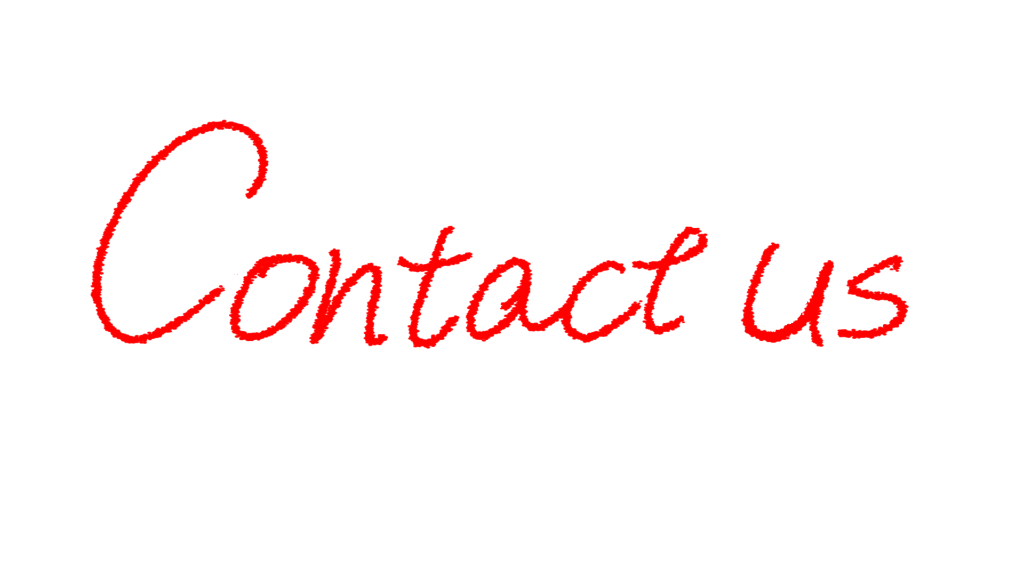
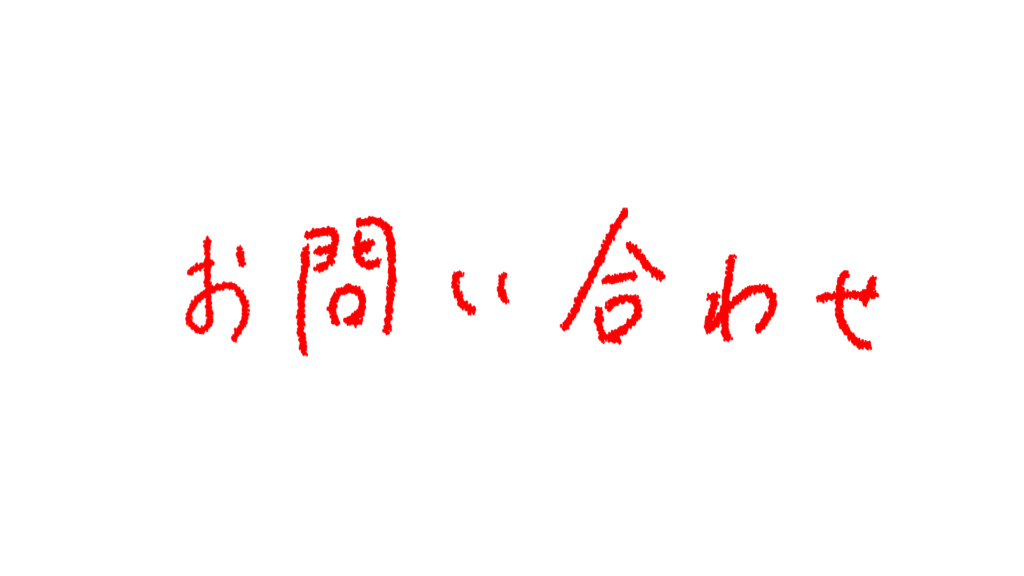
タイトル画像置き換え

Changed region(s): [[0.0625, 0.3438, 0.9062, 0.625], [0.125, 0.1875, 0.2812, 0.3438], [0.75, 0.4062, 0.7812, 0.4375]]

diff --git a/my-app/src/app/(frontend)/sections/Products.tsx b/my-app/src/app/(frontend)/sections/Products.tsx
@@ -100,18 +100,18 @@ export default function Products() {
       <div className="max-w-7xl mx-auto">
         {/* Header */}
         <div className="max-w-6xl mx-auto px-6">
-          <div className="flex justify-center mb-12">
-            <div className="relative w-48 h-16">
+          <div className="flex justify-center mb-8">
+            <div className="relative w-[400px] h-70">
               <Image
                 src="/images/products_title.png"
-                alt="Products"
+                alt="商品情報"
                 fill
                 className="object-contain"
                 priority
               />
             </div>
           </div>
-          <p className="text-ws-black/70 text-lg">
+          <p className="text-ws-black/70 text-lg text-center mb-8">
             鳥取の自然が育んだ、至高の味わいをお届けします。
           </p>
         </div>
@@ -124,8 +124,8 @@ export default function Products() {
               onClick={() => setSelectedCategory(cat)}
               className={`px-6 py-2 rounded-full border transition-all duration-300 ${
                 selectedCategory === cat
-                  ? 'bg-ws-primary text-white border-ws-primary shadow-lg scale-105'
-                  : 'bg-white text-ws-black border-ws-gray hover:border-ws-primary hover:text-ws-primary'
+                  ? 'bg-red-600 text-white border-red-600 shadow-lg scale-105'
+                  : 'bg-white text-ws-black border-ws-gray hover:border-red-600 hover:text-red-600'
               }`}
             >
               {cat === 'All'

diff --git a/my-app/src/app/(frontend)/sections/About.tsx b/my-app/src/app/(frontend)/sections/About.tsx
@@ -15,7 +15,7 @@ export default function About() {
             <div className="relative w-96 h-40">
               <Image
                 src="/images/about_title.png"
-                alt="私たちが大切にしていること"
+                alt="私たちについて"
                 fill
                 className="object-contain"
                 priority
@@ -42,9 +42,16 @@ export default function About() {
               <div className="inline-block px-6 py-2 bg-ws-black text-white rounded-full text-sm font-bold mb-8 tracking-wider">
                 FARMERS GARDEN
               </div>
-              <h3 className="text-3xl md:text-4xl font-bold mb-10 font-zenKakuGothicAntique leading-tight">
-                鳥取ファーマーズガーデン
-              </h3>
+              <div className="flex justify-center mb-10">
+                <div className="relative w-80 h-24">
+                  <Image
+                    src="/logo.jpg"
+                    alt="鳥取ファーマーズガーデン"
+                    fill
+                    className="object-contain"
+                  />
+                </div>
+              </div>
 
               <div className="space-y-8 text-lg text-ws-black/80 font-zenKakuGothicNew leading-loose">
                 <p>

diff --git a/my-app/src/app/(frontend)/sections/News.tsx b/my-app/src/app/(frontend)/sections/News.tsx
@@ -244,23 +244,23 @@ export default function News() {
   return (
     <section className="py-10 font-zenKakuGothicNew overflow-hidden">
       <div className="max-w-6xl mx-auto px-6">
-        <div className="flex justify-center mb-6">
-          <div className="relative w-96 h-40">
+        <div className="flex justify-center mb-2 mt-80">
+          <div className="relative w-[900px] h-70">
             <Image
               src="/images/news_title.png"
-              alt="News"
+              alt="最新情報"
               fill
               className="object-contain"
               priority
             />
           </div>
         </div>
-        <div className="text-center mb-4">
+        <div className="text-center mb-6 -mt-24">
           <a
             href="https://www.instagram.com/farmars_garden/?igsh=MXB2NHp2cmppZXN1cA%3D%3D"
             target="_blank"
             rel="noopener noreferrer"
-            className="text-ws-primary hover:underline inline-flex items-center gap-2 font-bold"
+            className="text-red-600 hover:underline inline-flex items-center gap-2 font-bold"
           >
             <svg
               xmlns="http://www.w3.org/2000/svg"

diff --git a/my-app/src/app/components/Footer.tsx b/my-app/src/app/components/Footer.tsx
@@ -1,3 +1,5 @@
+import Image from 'next/image'
+
 export default function Footer() {
   return (
     <footer className="bg-red-600 text-white py-16 font-zenKakuGothicNew">
@@ -6,9 +8,14 @@ export default function Footer() {
           {/* Left Side: Text Area (Company, Address, Phone) */}
           <div className="w-full md:w-1/2 flex flex-col justify-between h-80">
             <div>
-              <h2 className="text-3xl font-bold mb-2 font-zenKakuGothicAntique">
-                鳥取ファーマーズガーデン
-              </h2>
+              <div className="relative w-96 h-24 mb-2">
+                <Image
+                  src="/images/header-logo.png"
+                  alt="鳥取ファーマーズガーデン"
+                  fill
+                  className="object-contain object-left"
+                />
+              </div>
               <p className="text-white/80">地元の新鮮な食材と、心温まる体験を。</p>
             </div>
 

diff --git a/my-app/src/app/(frontend)/sections/Contact.tsx b/my-app/src/app/(frontend)/sections/Contact.tsx
@@ -8,7 +8,7 @@ export default function Contact() {
           <div className="relative w-96 h-40">
             <Image
               src="/images/contact_title.png"
-              alt="Contact Us"
+              alt="お問い合わせ"
               fill
               className="object-contain"
               priority
